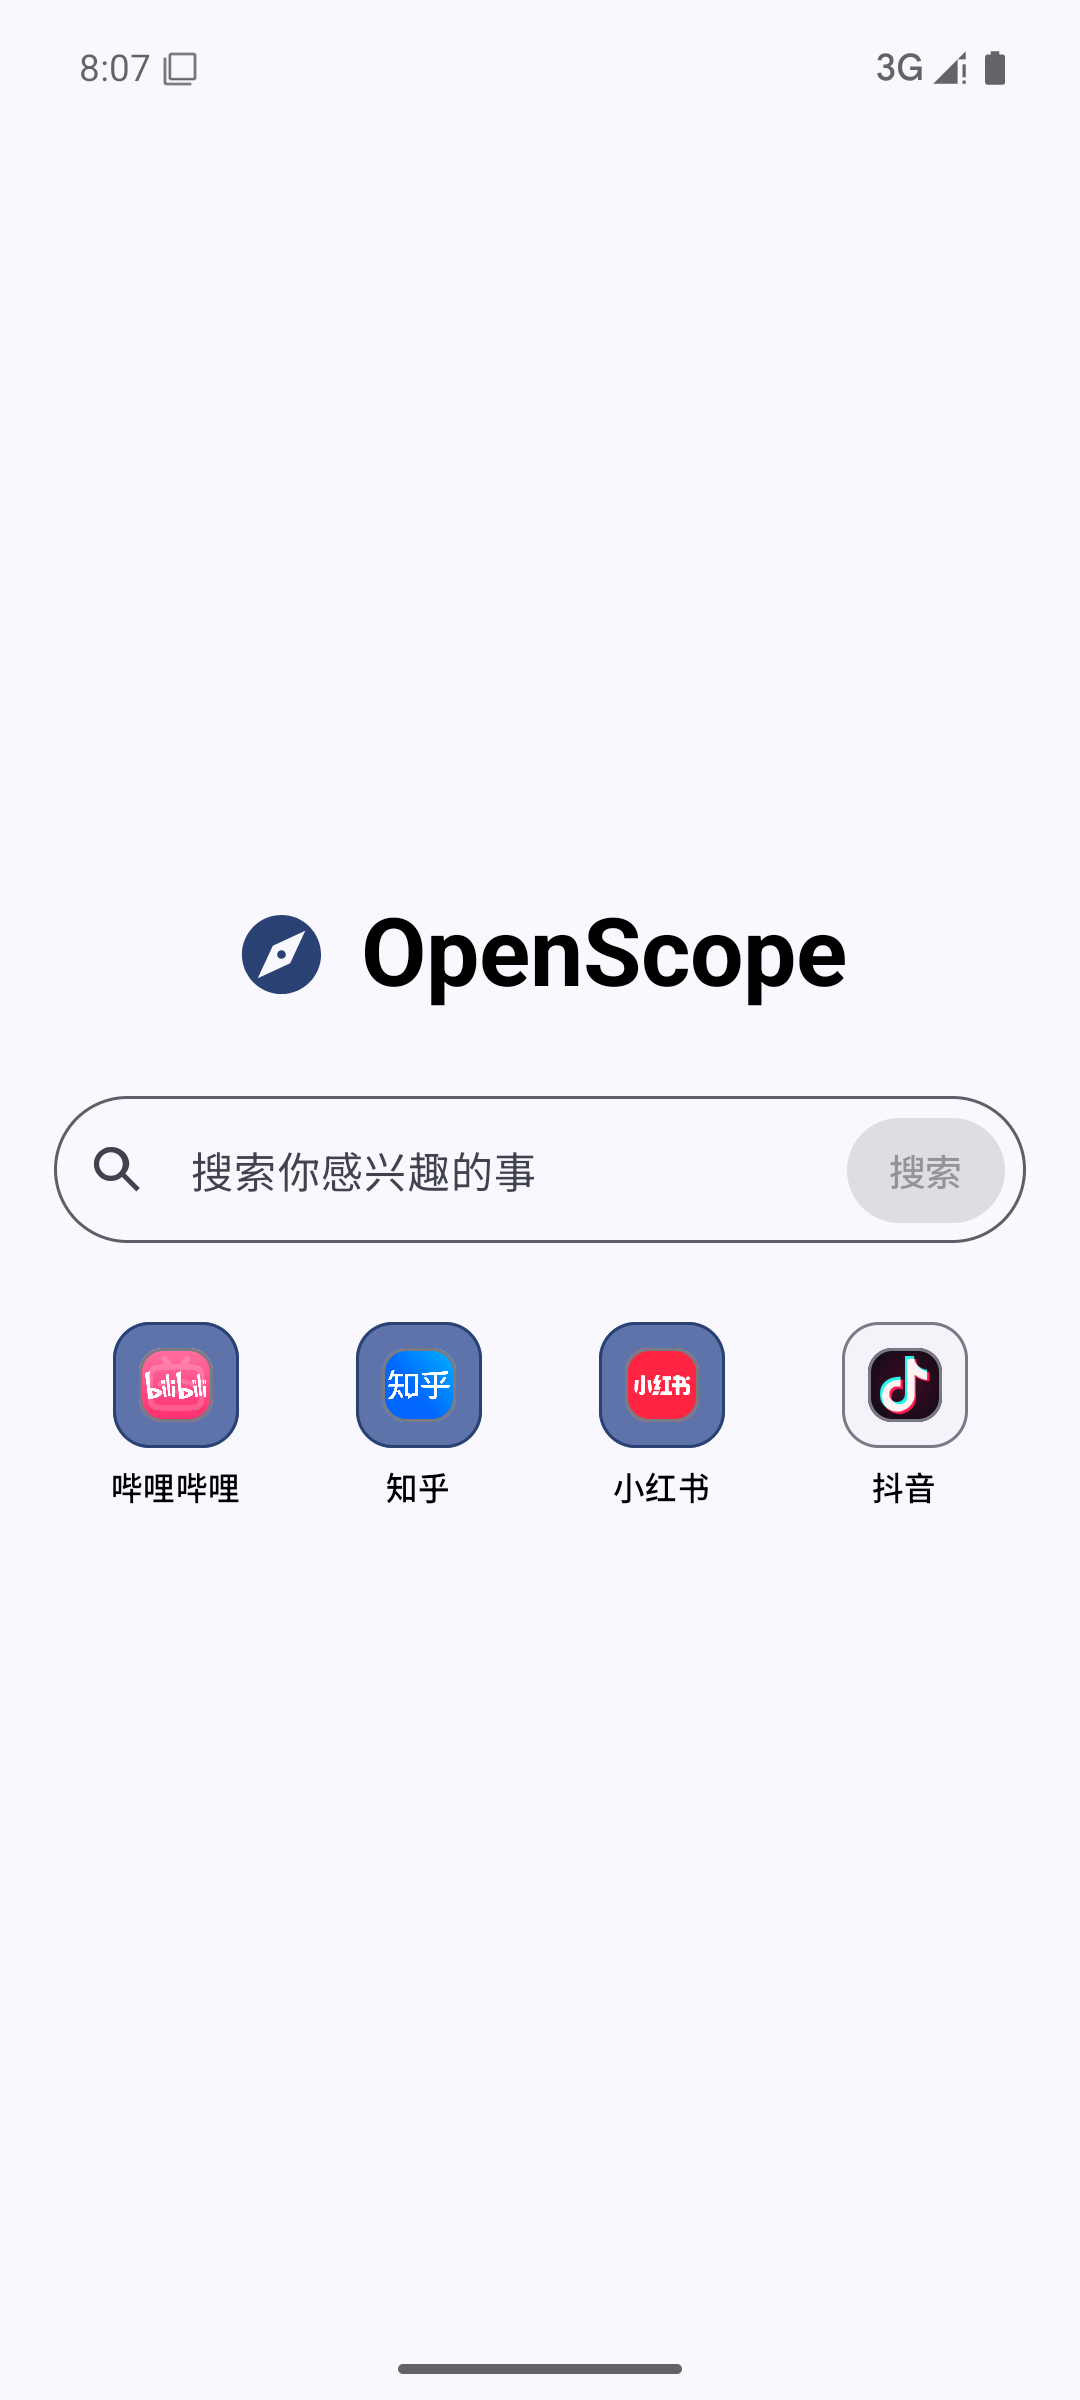
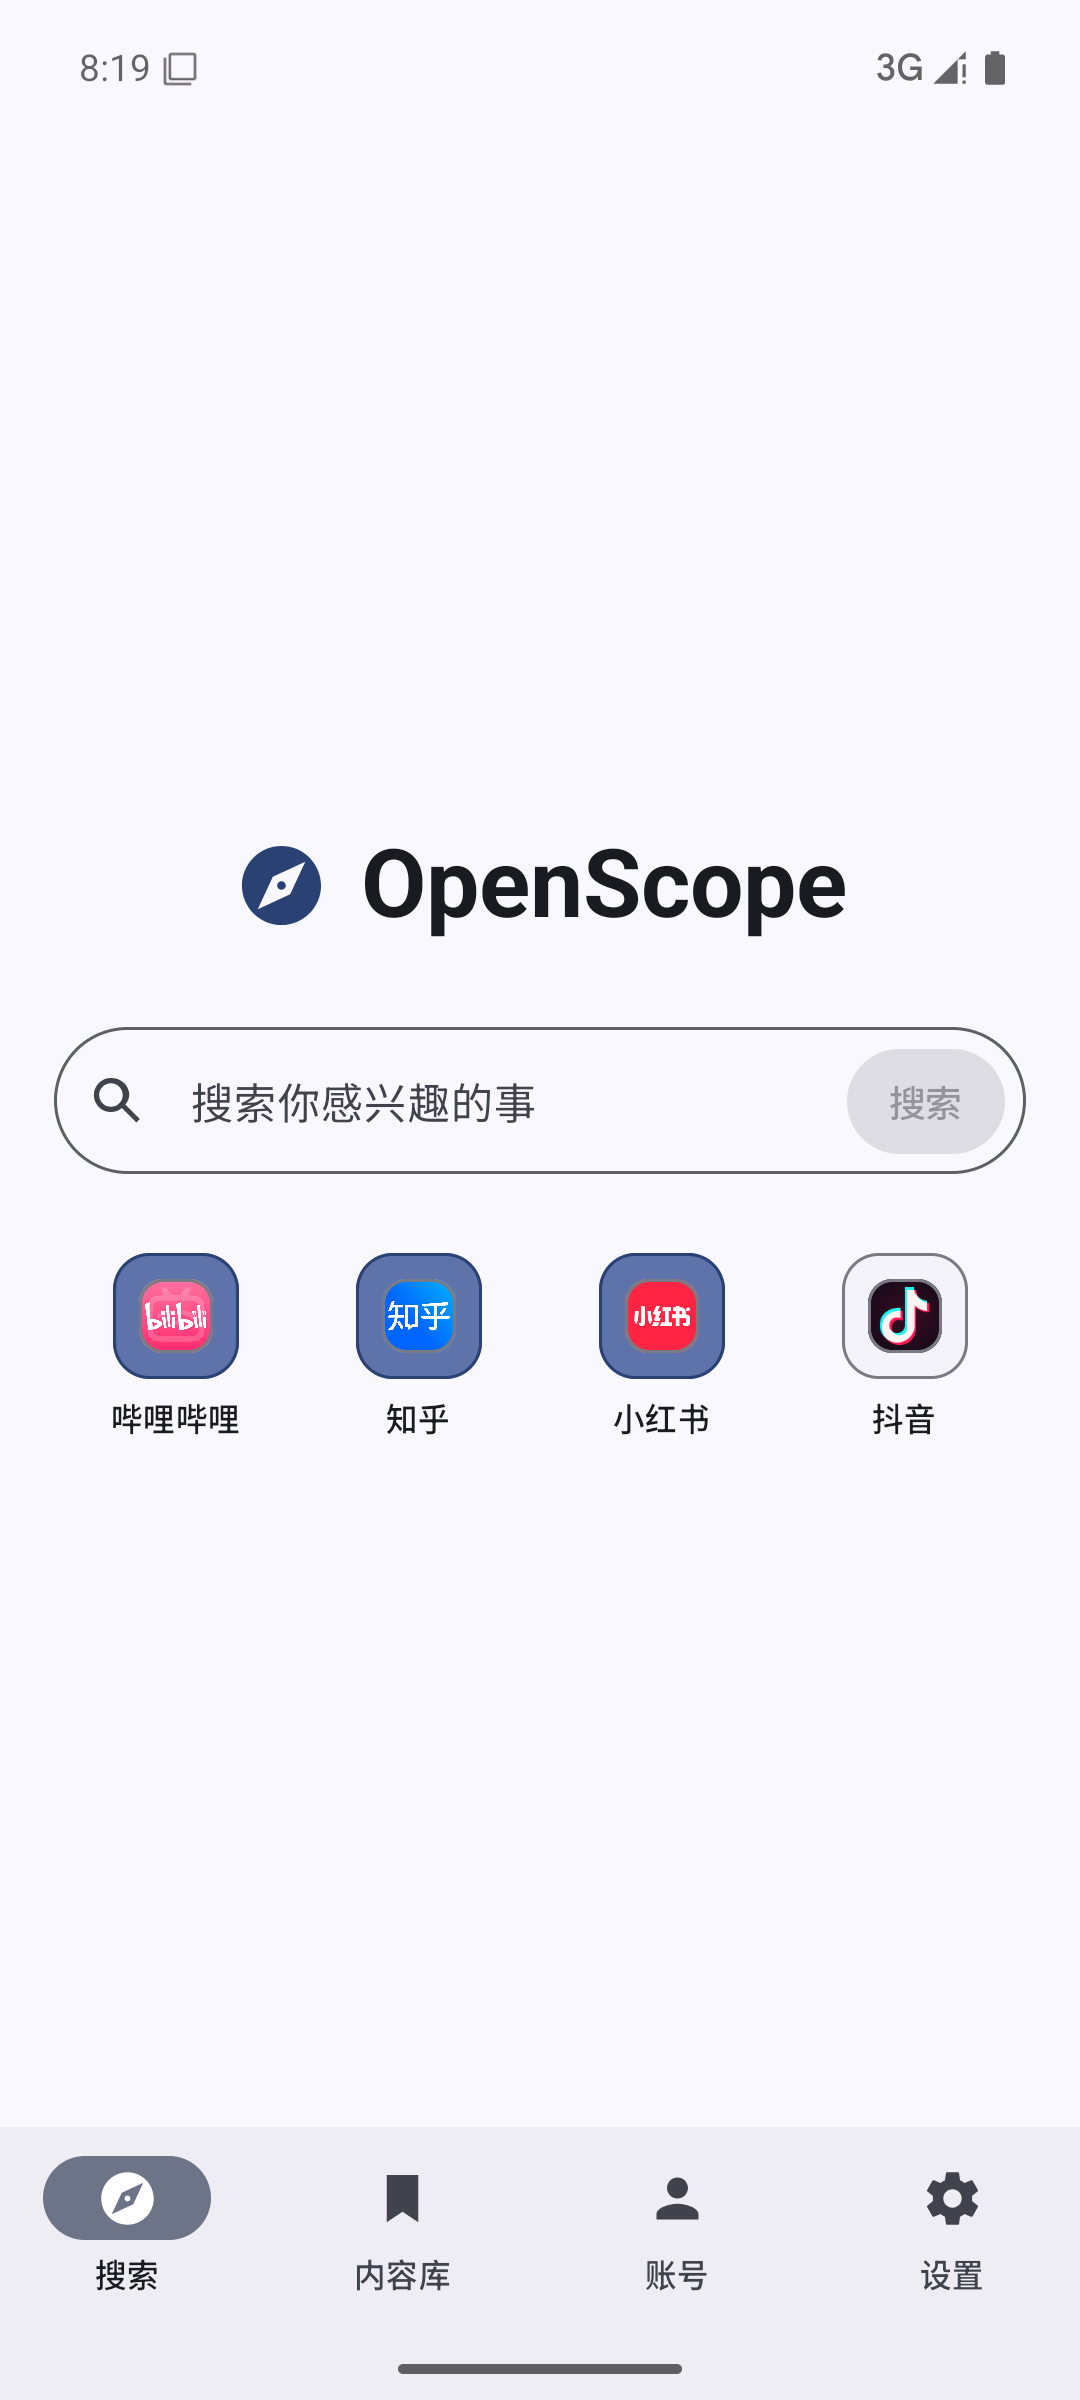
Keep dock and theme contrast on minimal home

diff --git a/app/src/main/java/dev/mediasearch/ui/MediaSearchApp.kt b/app/src/main/java/dev/mediasearch/ui/MediaSearchApp.kt
@@ -110,8 +110,13 @@ fun MediaSearchApp(model: SearchViewModel) {
         } else if (tab == 3 && showHelp) {
             HelpScreen(model, onBack = { showHelp = false })
         } else if (tab == 0 && (state.query.isBlank() || showHome) && LocalThemePreferences.current.minimalHome) {
-            MinimalSearchHome(state.input, state.enabled, model::input, model::togglePlatform,
-                onSearch = ::startSearch, onSettings = { tab = 3 })
+            Scaffold(
+                containerColor = MaterialTheme.colorScheme.background,
+                bottomBar = { AppBottomBar(tab) { tab = it } }
+            ) { padding ->
+                MinimalSearchHome(state.input, state.enabled, model::input, model::togglePlatform,
+                    onSearch = ::startSearch, onSettings = { tab = 3 }, modifier = Modifier.padding(padding))
+            }
         } else {
             BackHandler(enabled = tab == 0 && !showHome && state.query.isNotBlank()) { showHome = true }
             Scaffold(
@@ -130,19 +135,7 @@ fun MediaSearchApp(model: SearchViewModel) {
                         colors = TopAppBarDefaults.centerAlignedTopAppBarColors(containerColor = MaterialTheme.colorScheme.background)
                     )
                 },
-                bottomBar = {
-                    NavigationBar(containerColor = MaterialTheme.colorScheme.surfaceContainer) {
-                        listOf(
-                            "搜索" to AppIcons.Explore,
-                            "内容库" to AppIcons.Bookmark,
-                            "账号" to AppIcons.Person,
-                            "设置" to AppIcons.Settings
-                        ).forEachIndexed { index, (label, icon) ->
-                            NavigationBarItem(selected = tab == index, onClick = { tab = index },
-                                icon = { Icon(icon, contentDescription = label) }, label = { Text(label) })
-                        }
-                    }
-                }
+                bottomBar = { AppBottomBar(tab) { tab = it } }
             ) { padding ->
                 when (tab) {
                     0 -> LazyColumn(
@@ -349,7 +342,21 @@ fun MediaSearchApp(model: SearchViewModel) {
     }
 }
 
-@OptIn(ExperimentalLayoutApi::class)
+@Composable
+private fun AppBottomBar(selectedTab: Int, onSelect: (Int) -> Unit) {
+    NavigationBar(containerColor = MaterialTheme.colorScheme.surfaceContainer) {
+        listOf(
+            "搜索" to AppIcons.Explore,
+            "内容库" to AppIcons.Bookmark,
+            "账号" to AppIcons.Person,
+            "设置" to AppIcons.Settings
+        ).forEachIndexed { index, (label, icon) ->
+            NavigationBarItem(selected = selectedTab == index, onClick = { onSelect(index) },
+                icon = { Icon(icon, contentDescription = label) }, label = { Text(label) })
+        }
+    }
+}
+
 @Composable
 private fun MinimalSearchHome(
     input: String,
@@ -357,10 +364,11 @@ private fun MinimalSearchHome(
     onInput: (String) -> Unit,
     onToggle: (Platform) -> Unit,
     onSearch: () -> Unit,
-    onSettings: () -> Unit
+    onSettings: () -> Unit,
+    modifier: Modifier = Modifier
 ) {
     val keyboard = LocalSoftwareKeyboardController.current
-    Box(Modifier.fillMaxSize().background(MaterialTheme.colorScheme.background)) {
+    Box(modifier.fillMaxSize().background(MaterialTheme.colorScheme.background)) {
         Column(
             modifier = Modifier.align(Alignment.Center).fillMaxWidth(0.9f).widthIn(max = 720.dp),
             horizontalAlignment = Alignment.CenterHorizontally,
@@ -374,7 +382,8 @@ private fun MinimalSearchHome(
             ) {
                 Icon(AppIcons.Explore, contentDescription = null, tint = MaterialTheme.colorScheme.primary,
                     modifier = Modifier.size(36.dp))
-                Text("OpenScope", style = MaterialTheme.typography.displaySmall, fontWeight = FontWeight.Bold)
+                Text("OpenScope", style = MaterialTheme.typography.displaySmall, fontWeight = FontWeight.Bold,
+                    color = MaterialTheme.colorScheme.onBackground)
             }
             OutlinedTextField(
                 value = input, onValueChange = onInput, modifier = Modifier.fillMaxWidth(), singleLine = true,
@@ -406,7 +415,7 @@ private fun MinimalSearchHome(
                             Box(Modifier.size(48.dp), contentAlignment = Alignment.Center) { PlatformLogo(platform, 28.dp) }
                         }
                         Text(platform.label, style = MaterialTheme.typography.labelMedium, maxLines = 1,
-                            overflow = TextOverflow.Ellipsis)
+                            overflow = TextOverflow.Ellipsis, color = MaterialTheme.colorScheme.onBackground)
                     }
                 }
             }

diff --git a/app/src/main/java/dev/mediasearch/ui/Theme.kt b/app/src/main/java/dev/mediasearch/ui/Theme.kt
@@ -1,5 +1,6 @@
 package dev.mediasearch.ui
 
+import android.app.Activity
 import android.os.Build
 import androidx.compose.foundation.isSystemInDarkTheme
 import androidx.compose.material3.ColorScheme
@@ -10,10 +11,12 @@ import androidx.compose.material3.dynamicLightColorScheme
 import androidx.compose.material3.lightColorScheme
 import androidx.compose.runtime.Composable
 import androidx.compose.runtime.CompositionLocalProvider
+import androidx.compose.runtime.SideEffect
 import androidx.compose.runtime.remember
 import androidx.compose.runtime.staticCompositionLocalOf
 import androidx.compose.ui.graphics.Color
 import androidx.compose.ui.platform.LocalContext
+import androidx.core.view.WindowInsetsControllerCompat
 
 val LocalThemePreferences = staticCompositionLocalOf<ThemePreferences> {
     error("ThemePreferences is only available below CollectionTheme")
@@ -29,6 +32,14 @@ fun CollectionTheme(content: @Composable () -> Unit) {
         preferences.useDynamicColors && Build.VERSION.SDK_INT >= 31 -> dynamicLightColorScheme(context)
         dark -> preferences.palette.darkScheme()
         else -> preferences.palette.lightScheme()
+    }
+    // App appearance may override the device setting; system-bar icons must follow it too.
+    (context as? Activity)?.let { activity ->
+        SideEffect {
+            val controller = WindowInsetsControllerCompat(activity.window, activity.window.decorView)
+            controller.isAppearanceLightStatusBars = !dark
+            controller.isAppearanceLightNavigationBars = !dark
+        }
     }
     CompositionLocalProvider(LocalThemePreferences provides preferences) {
         MaterialTheme(colorScheme = colors, typography = androidx.compose.material3.Typography(), content = content)

diff --git a/app/src/main/java/dev/mediasearch/ui/SettingsScreen.kt b/app/src/main/java/dev/mediasearch/ui/SettingsScreen.kt
@@ -79,7 +79,7 @@ fun SettingsScreen(onOpenAbout: () -> Unit, modifier: Modifier = Modifier, onDia
                 ) {
                     Column(Modifier.weight(1f)) {
                         Text("极简首页", style = MaterialTheme.typography.titleMedium)
-                        Text("首页只显示 OpenScope、搜索栏和四个平台；点击标题可回到设置。搜索结果照常显示。",
+                        Text("首页聚焦 OpenScope、搜索栏和四个平台，保留底部导航；点击标题可回到设置。搜索结果照常显示。",
                             color = MaterialTheme.colorScheme.onSurfaceVariant, style = MaterialTheme.typography.bodySmall)
                     }
                     Switch(checked = preferences.minimalHome, onCheckedChange = preferences::useMinimalHome)

diff --git a/docs/release-0.4.3.md b/docs/release-0.4.3.md
@@ -6,12 +6,13 @@
 
 - 普通搜索首页移除右上角重复的“账号”按钮，底部账号入口保留。
 - 当 Bilibili、知乎、小红书、抖音四个来源都由 App 确认为已登录时，“你的内容来源”自动收成右侧的“内容来源 · 已连接 4/4”；点按可展开，展开后可再收起。只要有来源未确认登录，仍显示完整账号入口。
-- 设置新增持久化的“极简首页”。开启后，空白搜索首页只显示居中的 OpenScope、搜索栏和**单行排列**的四个平台标识；结果页仍按原布局呈现。点按 OpenScope 标题可进入设置并关闭该模式。
+- 设置新增持久化的“极简首页”。开启后，空白搜索首页聚焦居中的 OpenScope、搜索栏和**单行排列**的四个平台标识，保留底部导航；结果页仍按原布局呈现。点按 OpenScope 标题可进入设置并关闭该模式。
+- 极简首页保留底部搜索、内容库、账号、设置 dock；标题和平台名称使用当前主题的文字色，状态栏图标也跟随 App 深浅模式，避免深色背景出现黑字、黑色状态图标。
 - 小红书热搜选项改为读取官方 Explore 网页自身加载的热词，不向小红书接口发无签名直连请求，也不自动处理验证码。没有热词时显示不可用状态并提供官方页面入口。
 
 ## 已验证与边界
 
-API 35 x86_64 模拟器上，极简模式仅显示品牌、搜索框和单行四个平台；点按品牌可进入设置。截图见 [极简首页](images/openscope-minimal-043.png)。未登录的小红书官方页面只显示登录引导，因此热词不可用，App 显示提示与官方页面入口，见 [回退界面](images/openscope-xhs-hot-fallback-043.png)；**已登录的热词返回仍待目标设备验证**。四个平台全部登录后的自动收起逻辑已实现，当前模拟器缺少三个有效会话，尚未做真实四账号视觉验收。
+API 35 x86_64 模拟器上，极简模式显示品牌、搜索框、单行四个平台和底部 dock；点按品牌可进入设置。Release 实拍见 [浅色首页](images/openscope-minimal-043.png)与 [深色首页](images/openscope-minimal-dark-dock-043.png)。未登录的小红书官方页面只显示登录引导，因此热词不可用，App 显示提示与官方页面入口，见 [回退界面](images/openscope-xhs-hot-fallback-043.png)；**已登录的热词返回仍待目标设备验证**。四个平台全部登录后的自动收起逻辑已实现，当前模拟器缺少三个有效会话，尚未做真实四账号视觉验收。
 
 ## 构建
 
@@ -19,7 +20,7 @@ API 35 x86_64 模拟器上，极简模式仅显示品牌、搜索框和单行四
 
 | 本地 APK | 字节数 | SHA-256 |
 | --- | ---: | --- |
[4 lines of base64/hex data omitted]
 
[1 lines of base64/hex data omitted]
